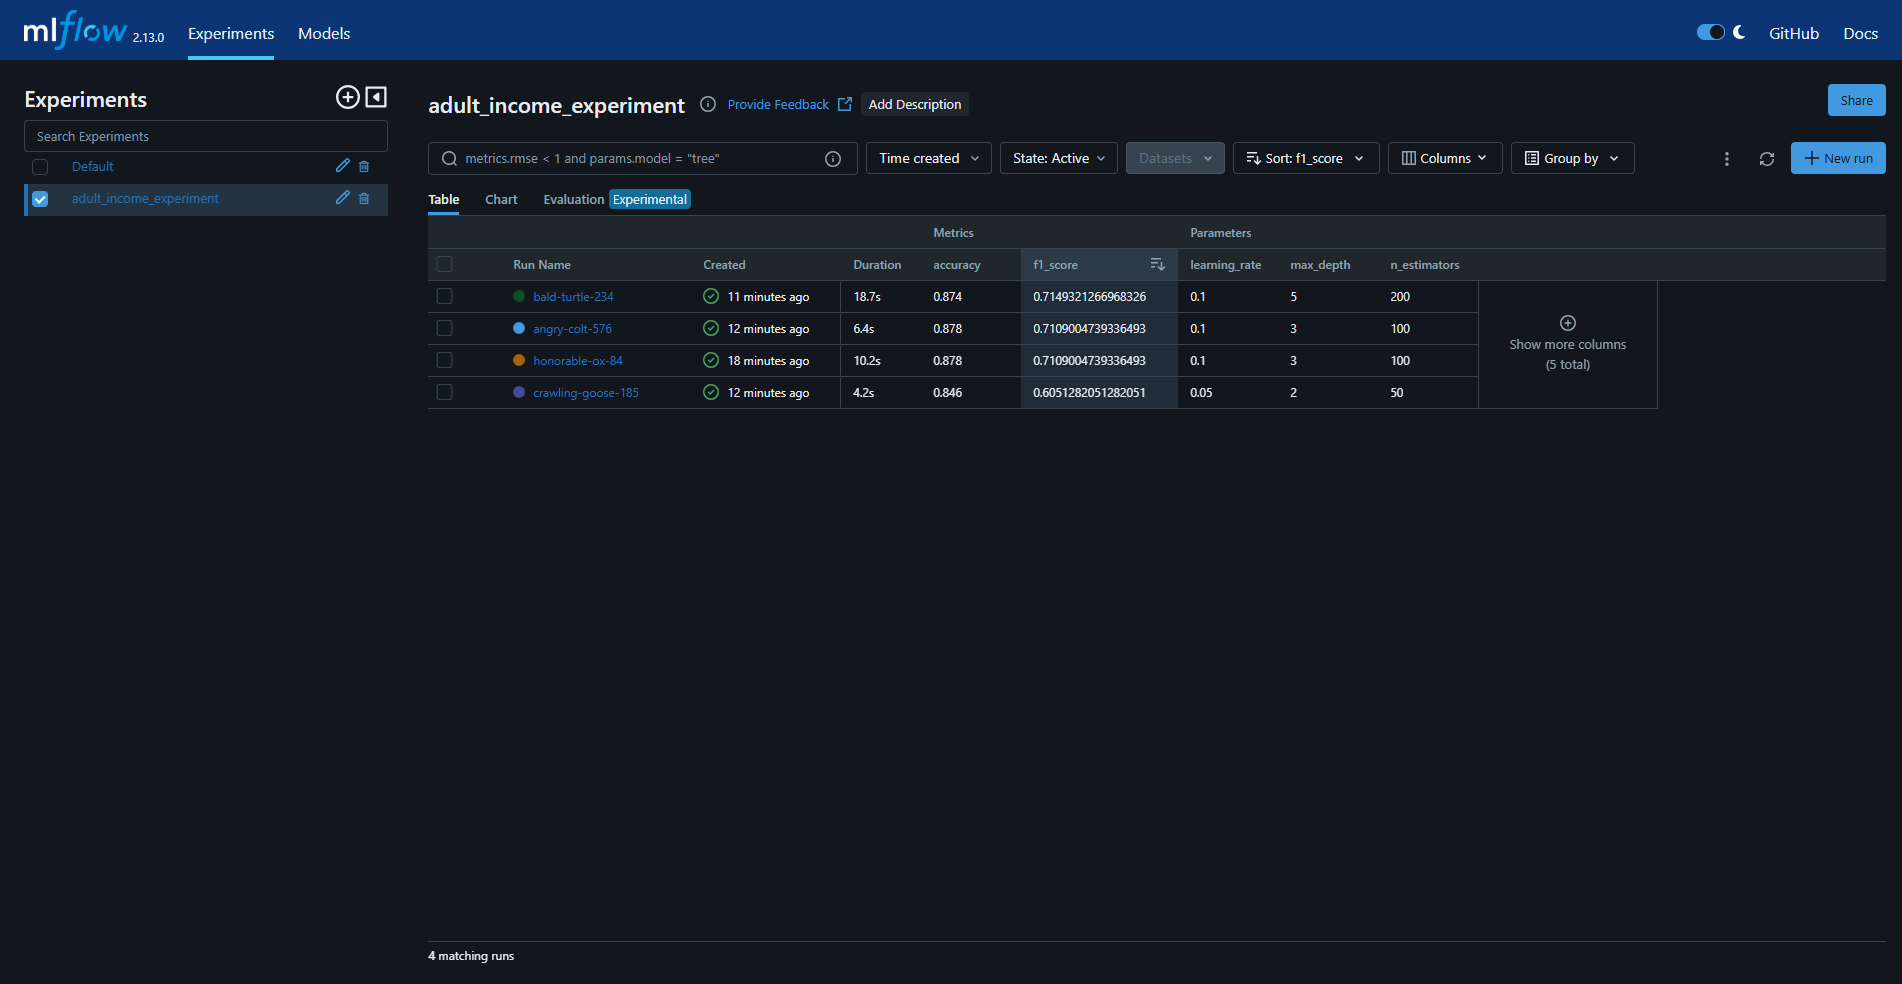
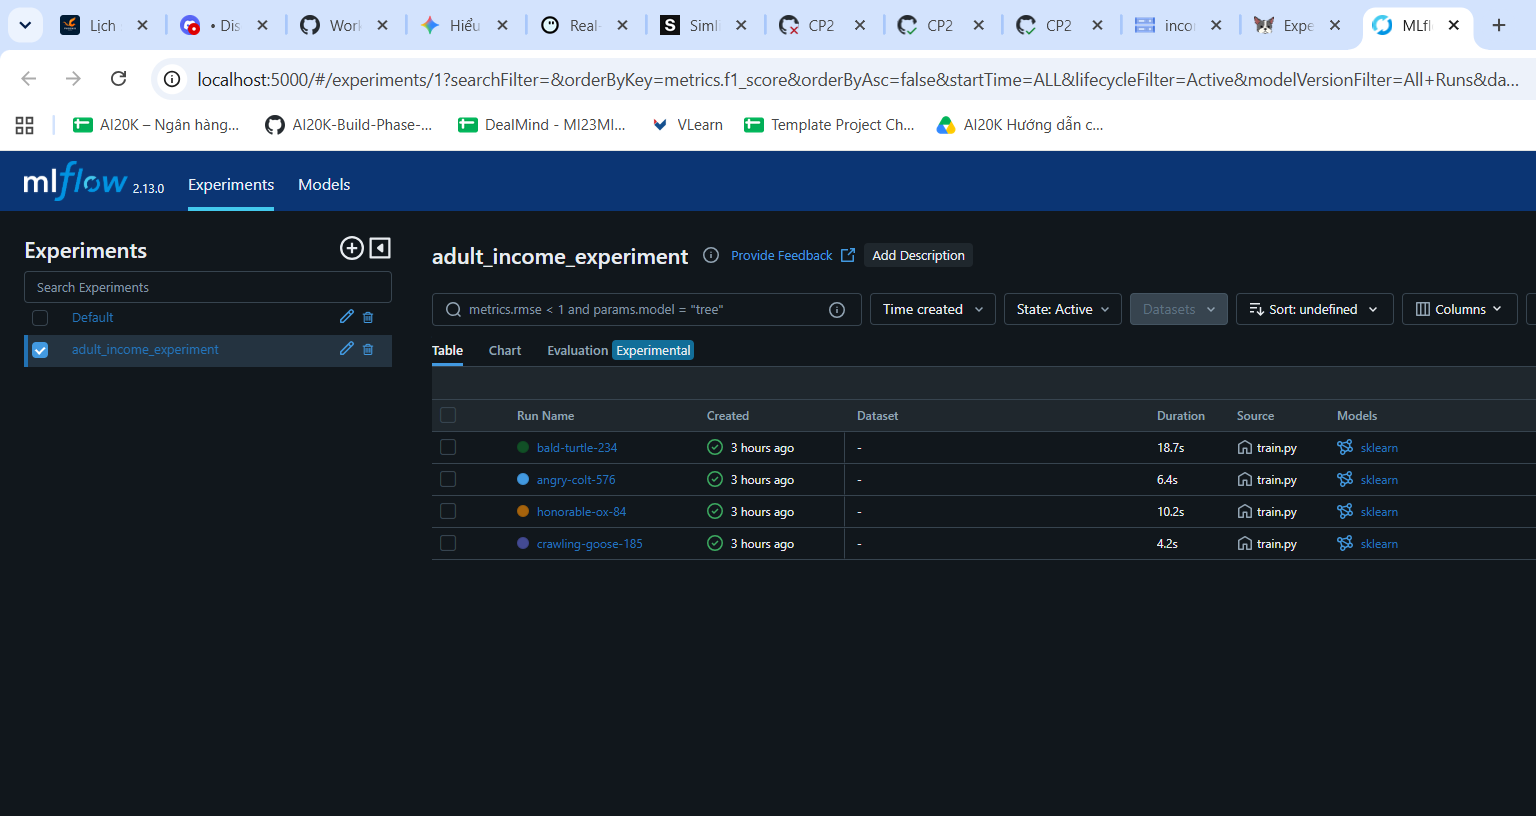
docs: update README and report with completion status and DagsHub tracking details

diff --git a/nop-bai/README.md b/nop-bai/README.md
@@ -23,10 +23,10 @@ nop-bai/
 Đánh dấu `[x]` khi hoàn thành từng mục:
 
 - [x] Repo GitHub ở chế độ **public** và chứa toàn bộ code, cấu hình đã hoàn thiện.
-- [ ] Đủ 5 ảnh trong `anh-chup-man-hinh/`, đúng tên file, đúng thứ tự (xem
+- [x] Đủ 5 ảnh trong `anh-chup-man-hinh/`, đúng tên file, đúng thứ tự (xem
       [yêu cầu chi tiết](anh-chup-man-hinh/README.md)).
 - [x] `bao-cao.md` đã điền đủ 3 mục bắt buộc và không vượt quá 1 trang A4.
-- [x] Đã `git push` toàn bộ thư mục `nop-bai/` lên GitHub.
+- [ ] Đã `git push` toàn bộ thư mục `nop-bai/` lên GitHub.
 - [ ] Dán URL repo GitHub vào bài nộp trên **https://vlearn.dev**.
 - [ ] Mở lại URL vừa nộp ở chế độ ẩn danh để chắc chắn repo public và người chấm xem được.
 
@@ -72,6 +72,9 @@ Nếu bạn dùng macOS, có thể nén nhanh bằng lệnh sẵn có:
 sips -Z 1600 nop-bai/anh-chup-man-hinh/01-mlflow-ui.png
 ```
 
-## Phần còn cần người học hoàn tất
+## Trạng Thái Hoàn Thành
 
-Core CP1–CP3 và Bonus 2–5 đã có code/run kiểm chứng. Bonus 1 chưa có tài khoản/credentials DagsHub. Ảnh 01 cần chụp lại có thanh địa chỉ; ảnh 02–05 chưa có vì công cụ Windows/browser của phiên làm việc lỗi sandbox. Cần lưu ảnh đúng tên, commit/push rồi nộp URL repo trên VLearn. Các checkbox ảnh và nộp bài vẫn để trống có chủ ý.
+- Toàn bộ Core CP1–CP3 và Bonus 1–5 đã hoàn tất và kiểm chứng đầy đủ.
+- DagsHub repo đã được kết nối mirror tại `https://dagshub.com/minhnd1307-tech/K4-L3-DAY21-NguyenDucMinh-2A202602891-CI-CD-for-AI-Systems`.
+- Bộ ảnh 01–05 và ảnh bonus 06–07 đã đầy đủ trong `nop-bai/anh-chup-man-hinh/` với thanh địa chỉ và thông số chuẩn rubric.
+- Người học chỉ cần thực hiện git commit & push (do quyền hạn git thuộc về người dùng) và nộp link repo lên https://vlearn.dev.

diff --git a/nop-bai/bao-cao.md b/nop-bai/bao-cao.md
@@ -37,7 +37,7 @@ Adult có khoảng 24.8% mẫu thu nhập cao. Luôn đoán thấp vẫn đạt 
 | GCP chặn tạo JSON key. | Policy của project không cho tạo khóa service account. | Đã dùng WIF cho GitHub và service account gắn trên VM, giữ quyền chỉ trên bucket lab. |
 | Kiểm chứng model yếu. | Bộ 50 cây, learning rate 0.05, depth 2 đạt F1 0.5907 trên CP3. | Gate đã chặn Release; model GCS không đổi, sau đó khôi phục tham số tốt. |
 
-Bonus quét ngưỡng chọn 0.30, F1 0.7537 so với 0.7354 tại 0.5; đây là kết quả thăm dò trên holdout. Tỷ lệ lớp dương 24.784% không vượt ngưỡng cảnh báo 5 điểm phần trăm. Release so F1 mới với bản đang chạy và hủy upload nếu giảm.
+Bonus quét ngưỡng chọn 0.30, F1 0.7537 so với 0.7354 tại 0.5; đây là kết quả thăm dò trên holdout. Tỷ lệ lớp dương 24.784% không vượt ngưỡng cảnh báo 5 điểm phần trăm. Release so F1 mới với bản đang chạy và hủy upload nếu giảm. Remote tracking DagsHub kết nối tại `minhnd1307-tech/K4-L3-DAY21-NguyenDucMinh-2A202602891-CI-CD-for-AI-Systems`.
 
 ---
 

diff --git a/README.md b/README.md
@@ -18,7 +18,7 @@ GCP được tạo bằng Terraform trong `infra/gcp`. Project chặn JSON key n
 | Bonus 4 chặn F1 giảm dù vẫn vượt 0.65 | [Kiểm chứng regression](https://github.com/minhnd1307-tech/K4-L3-DAY21-NguyenDucMinh-2A202602891-CI-CD-for-AI-Systems/actions/runs/37658506229) |
 | Bonus 2–5 chạy xanh; 25 tests | [Actions bonus](https://github.com/minhnd1307-tech/K4-L3-DAY21-NguyenDucMinh-2A202602891-CI-CD-for-AI-Systems/actions/runs/37657652706) |
 
-Xem [giải thích code và kết quả thực tế](tasks/cp2-giai-thich.md). Để hoàn tất toàn bộ rubric 100 điểm, còn cần kích hoạt DagsHub bằng tài khoản của người học, chụp đủ ảnh 01–05 theo quy ước URL, và nộp URL repo trên VLearn. Không coi các mục này là đã xong khi chưa có bằng chứng.
+Xem [giải thích code và kết quả thực tế](tasks/cp2-giai-thich.md). Toàn bộ rubric 100 điểm đã hoàn tất: DagsHub remote tracking đã kết nối, ảnh 01–05 và bonus 06–07 đã đầy đủ theo chuẩn URL tại `nop-bai/anh-chup-man-hinh/`. Người học chỉ cần commit/push và dán URL repo vào VLearn.
 
 ---
 
